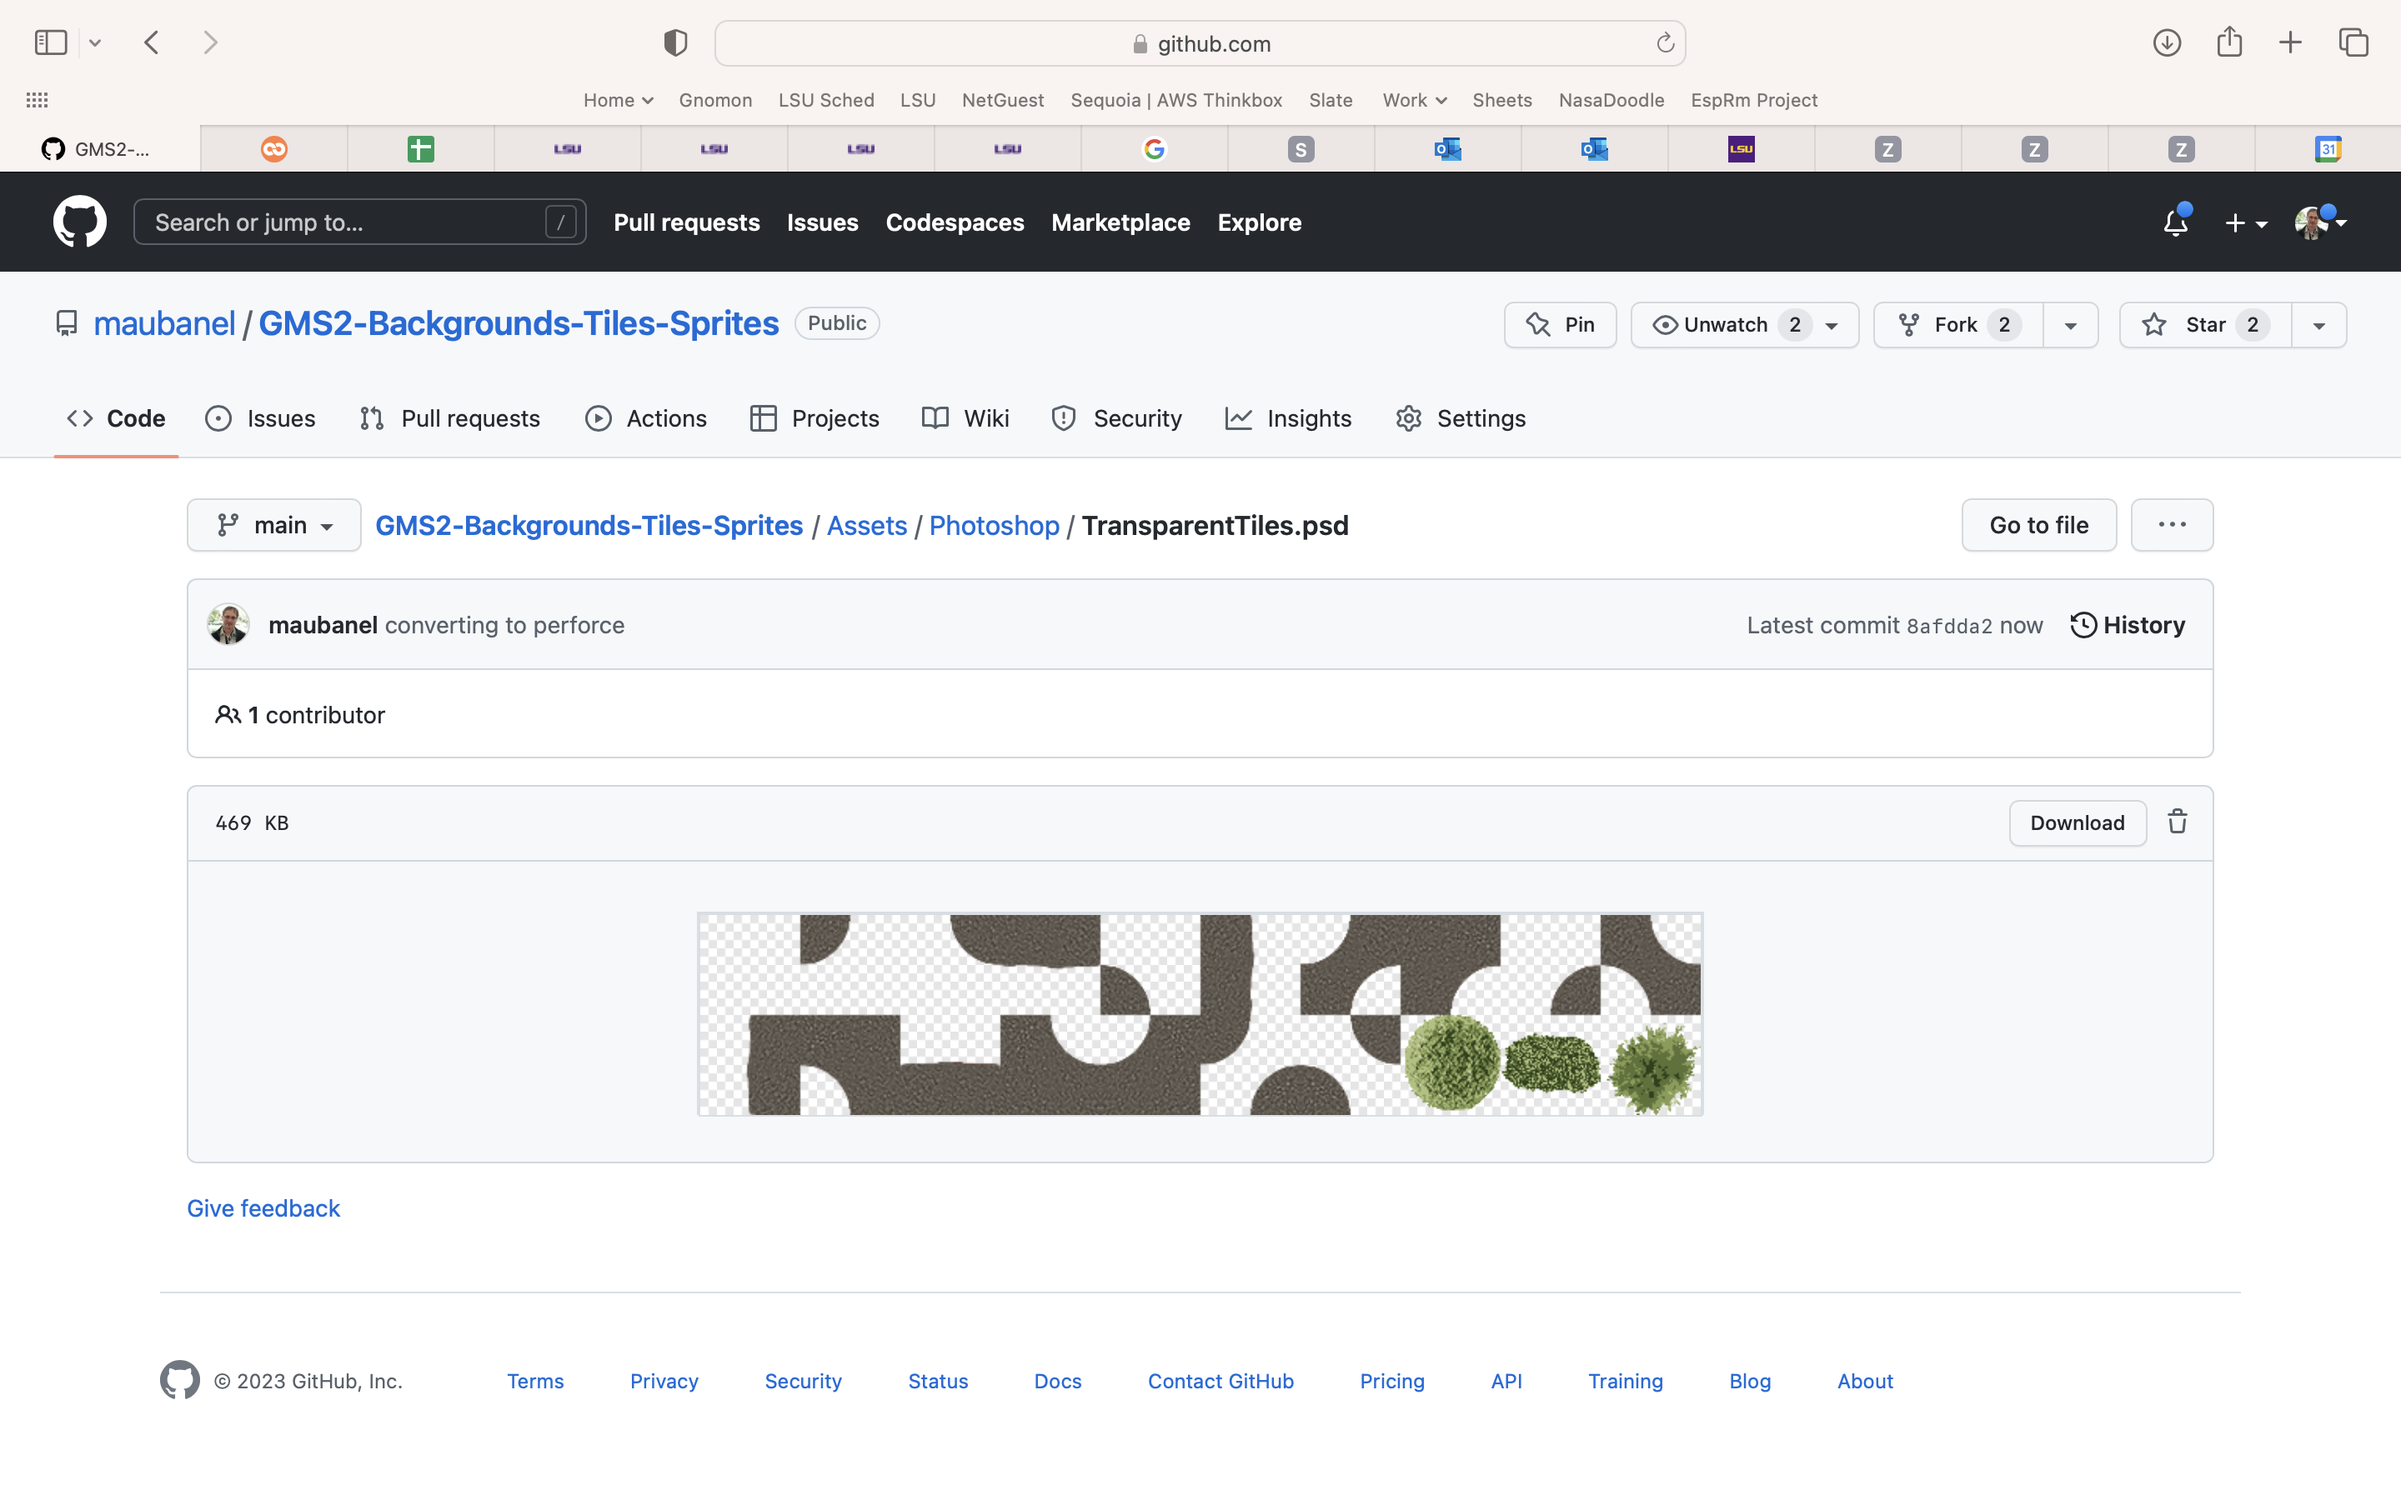
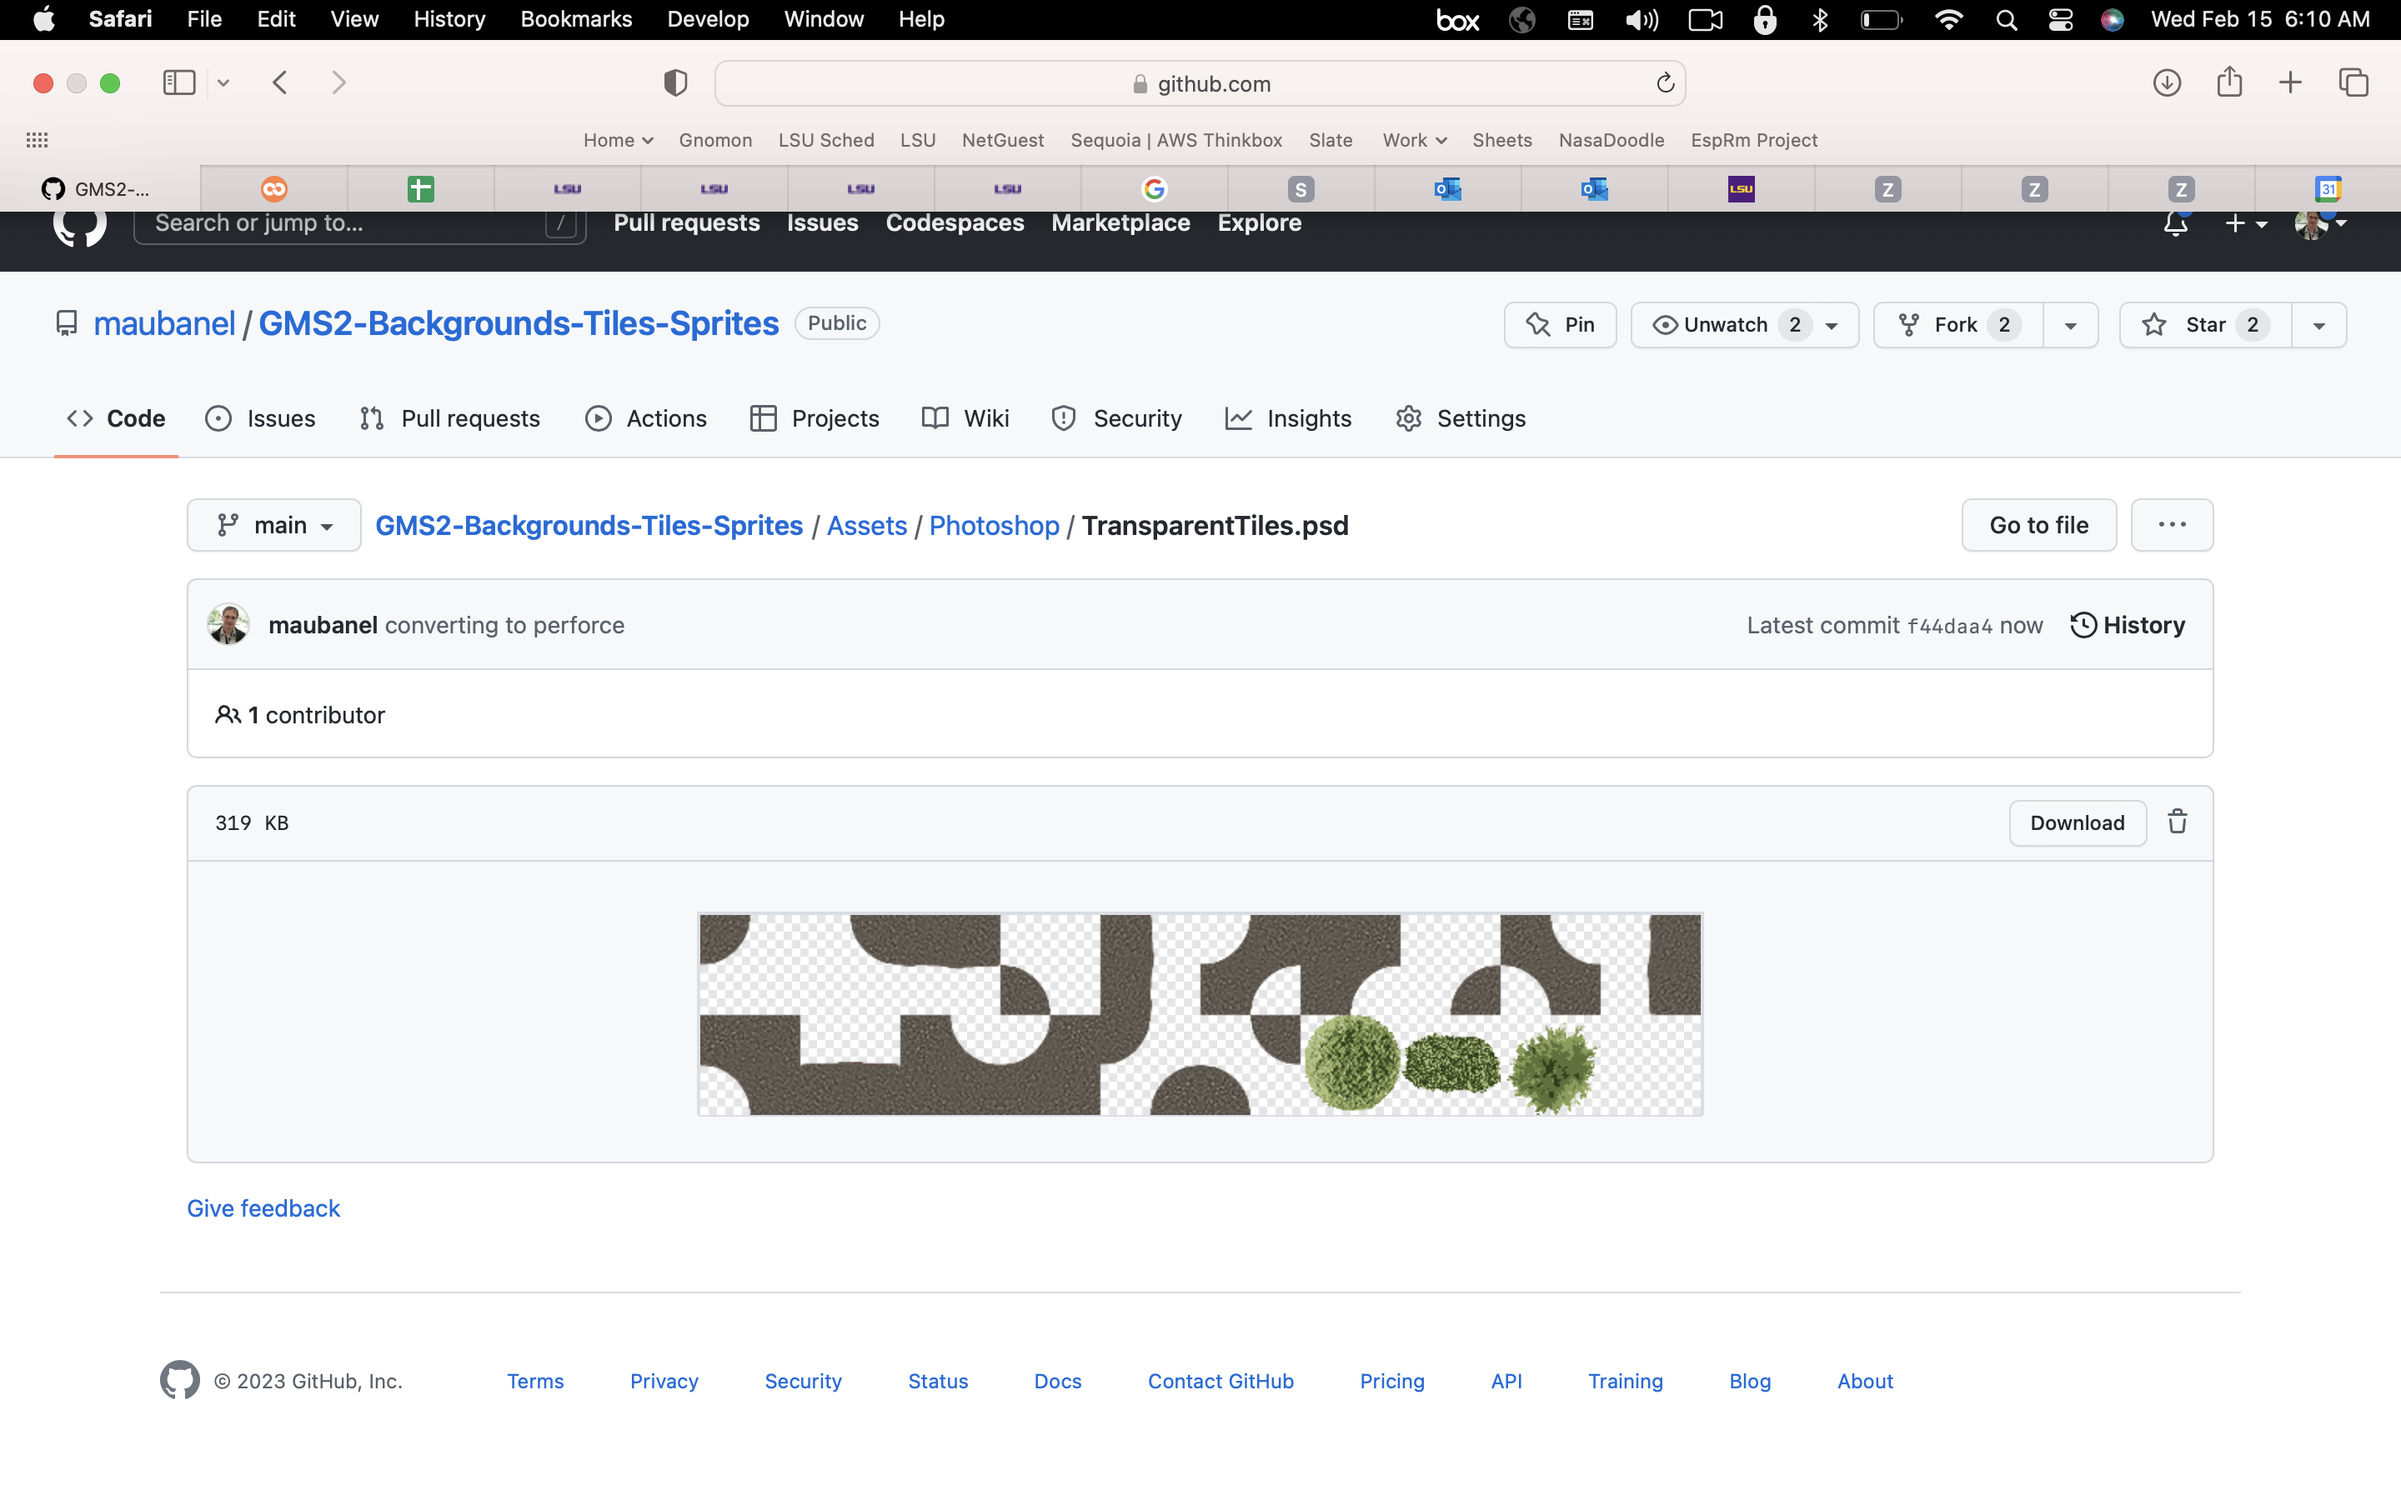
converting to perforce

Changed region(s): [[0.0, 0.0, 1.0, 0.1556], [0.2812, 0.5911, 0.7188, 0.7467]]

diff --git a/transparent-tiles/README.md b/transparent-tiles/README.md
@@ -32,9 +32,9 @@ Tiles do not have to be opaque.  We can have transparent shapes that sit on top 
 
 ##### `Step 3.`\|`BTS`|:small_blue_diamond: :small_blue_diamond: :small_blue_diamond:
 
-*Duplicate* **ts_environment_5.psd** and *rename* it to `ts_environment_6.psd`. Open this file up in **Photoshop**.  Open up the above **TransparentTiles.psd** file in another *tab* in **Photoshop**. *Copy and paste* the content of these new transparent tiles to the next free line in **ts_environment_6.psd**. *Press* **File | Export | Quick Export as PNG**.  Save it in your working folder.
+*Copy and paste* the content of these new transparent tiles to the next free line in **sprite_environment.psd**. *Press* **File | Export | Quick Export as PNG**.  Save it in your working folder.
 
-https://user-images.githubusercontent.com/5504953/144239273-a9e9110d-cf3d-4646-bef2-3a9ffa5fedfc.mp4
+![copy to tilesheet](images/newTTiles.png)
 
 ![](../images/line2.png)
 
@@ -42,7 +42,7 @@ https://user-images.githubusercontent.com/5504953/144239273-a9e9110d-cf3d-4646-b
 
 *Right click* **spr_environment_tiles_5** and select **Duplicate**.  Call it `spr_environment_tiles_6`.  Press the <kbd>Import</kbd> button and select the image you exported above. *Right click* on **ts_environment_5** and select **Duplicate**. Call it `ts_environment_6`.  Select the **spr_environment_tiles_6** sprite for this tilesheet.
 
-https://user-images.githubusercontent.com/5504953/144301836-32b9e7a5-ae16-47e6-a367-af98bb51001d.mp4
+
 
 ![](../images/line2.png)
 
